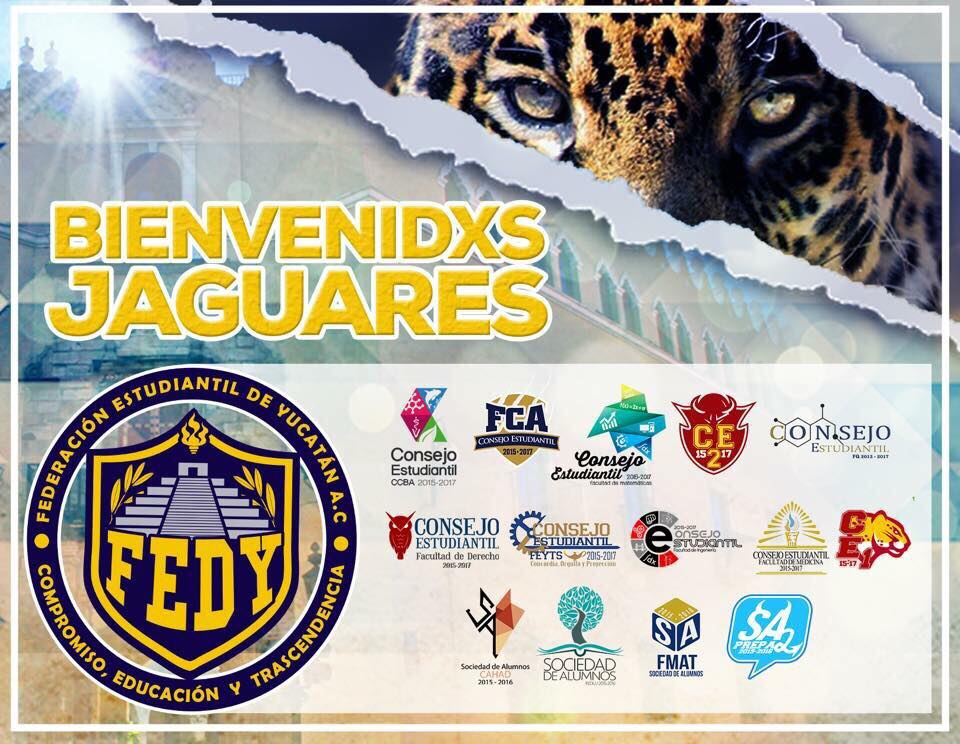
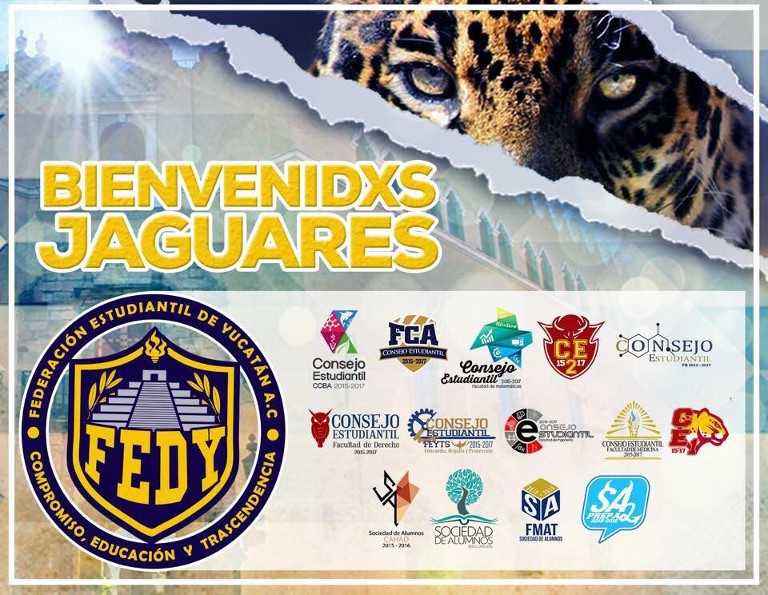
Imagenes responsivas en cuponera

diff --git a/www/cuponera.html b/www/cuponera.html
@@ -75,24 +75,24 @@
         <section data-role="page" id="imagenes">
             <div class="slider">
                 <ul class="slides">
-                    <li>
-                        <img src="img/bienvenidos.jpg"> <!-- random image -->
+                    <li class="col">
+                        <img src="img/bienvenidos.jpg" class="responsive-img">
                         <div class="caption center-align">
                         </div>
                     </li>
                     <li>
-                        <img src="img/gallo.jpg">
+                        <img src="img/gallo.jpg" class="responsive-img">
 
                         <div class="caption right-align">
                         </div>
                     </li>
                     <li>
-                        <img src="img/bowling.jpg">
+                        <img src="img/bowling.jpg" class="responsive-img">
 
                         <div class="caption center-align"></div>
                     </li>
                     <li>
-                        <img src="img/mexiana.jpg">
+                        <img src="img/mexiana.jpg" class="responsive-img">
 
                         <div class="caption right-align">
                         </div>
